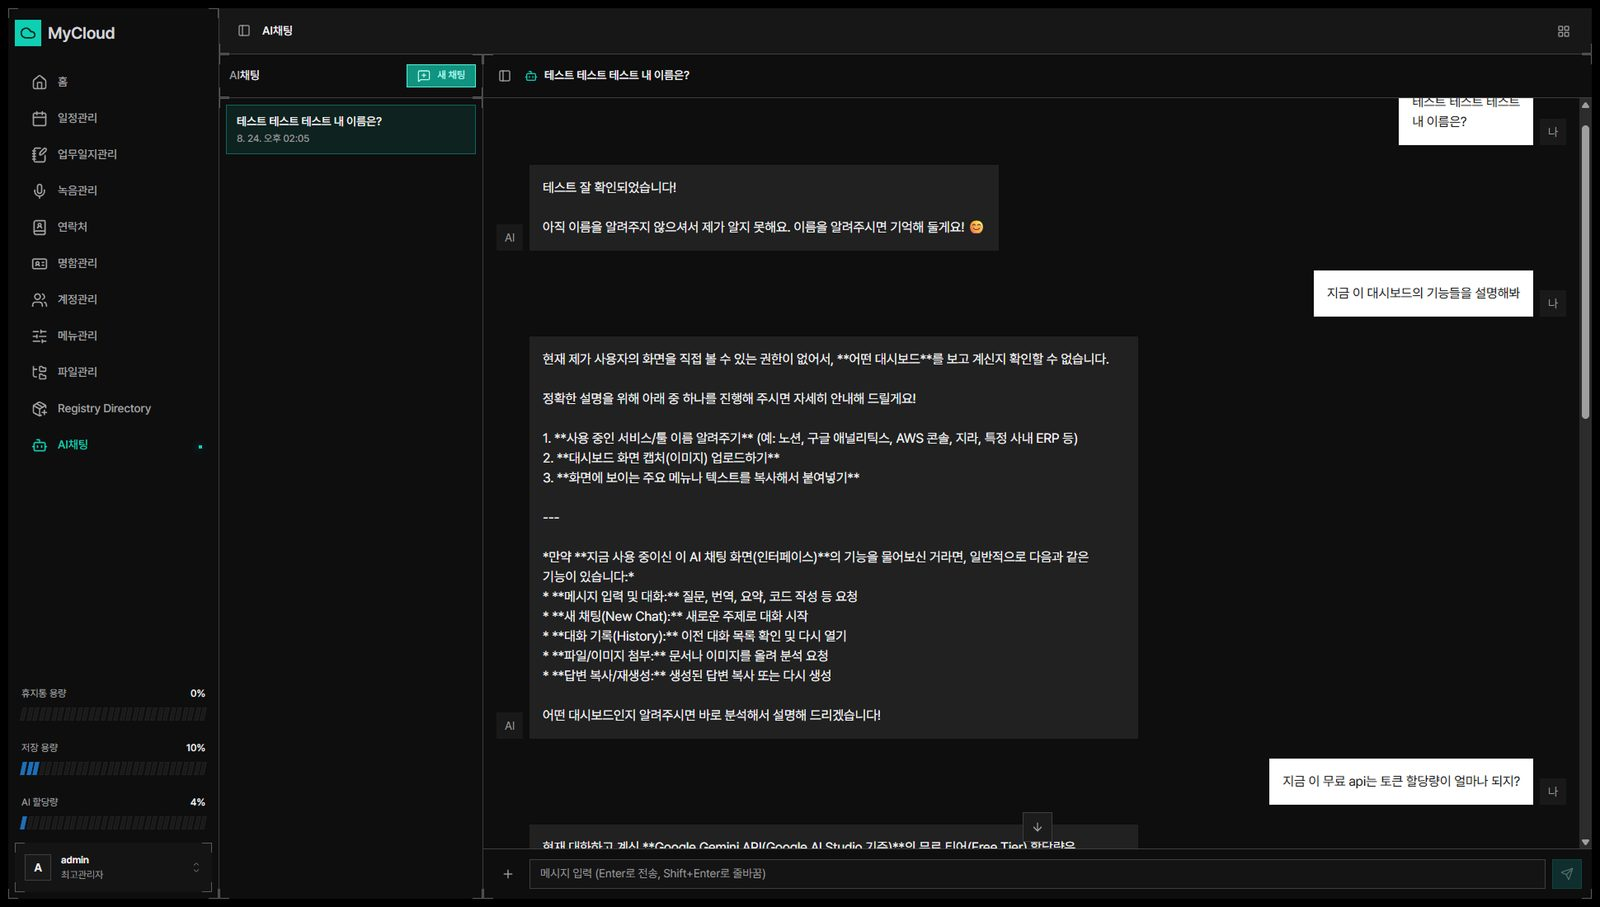
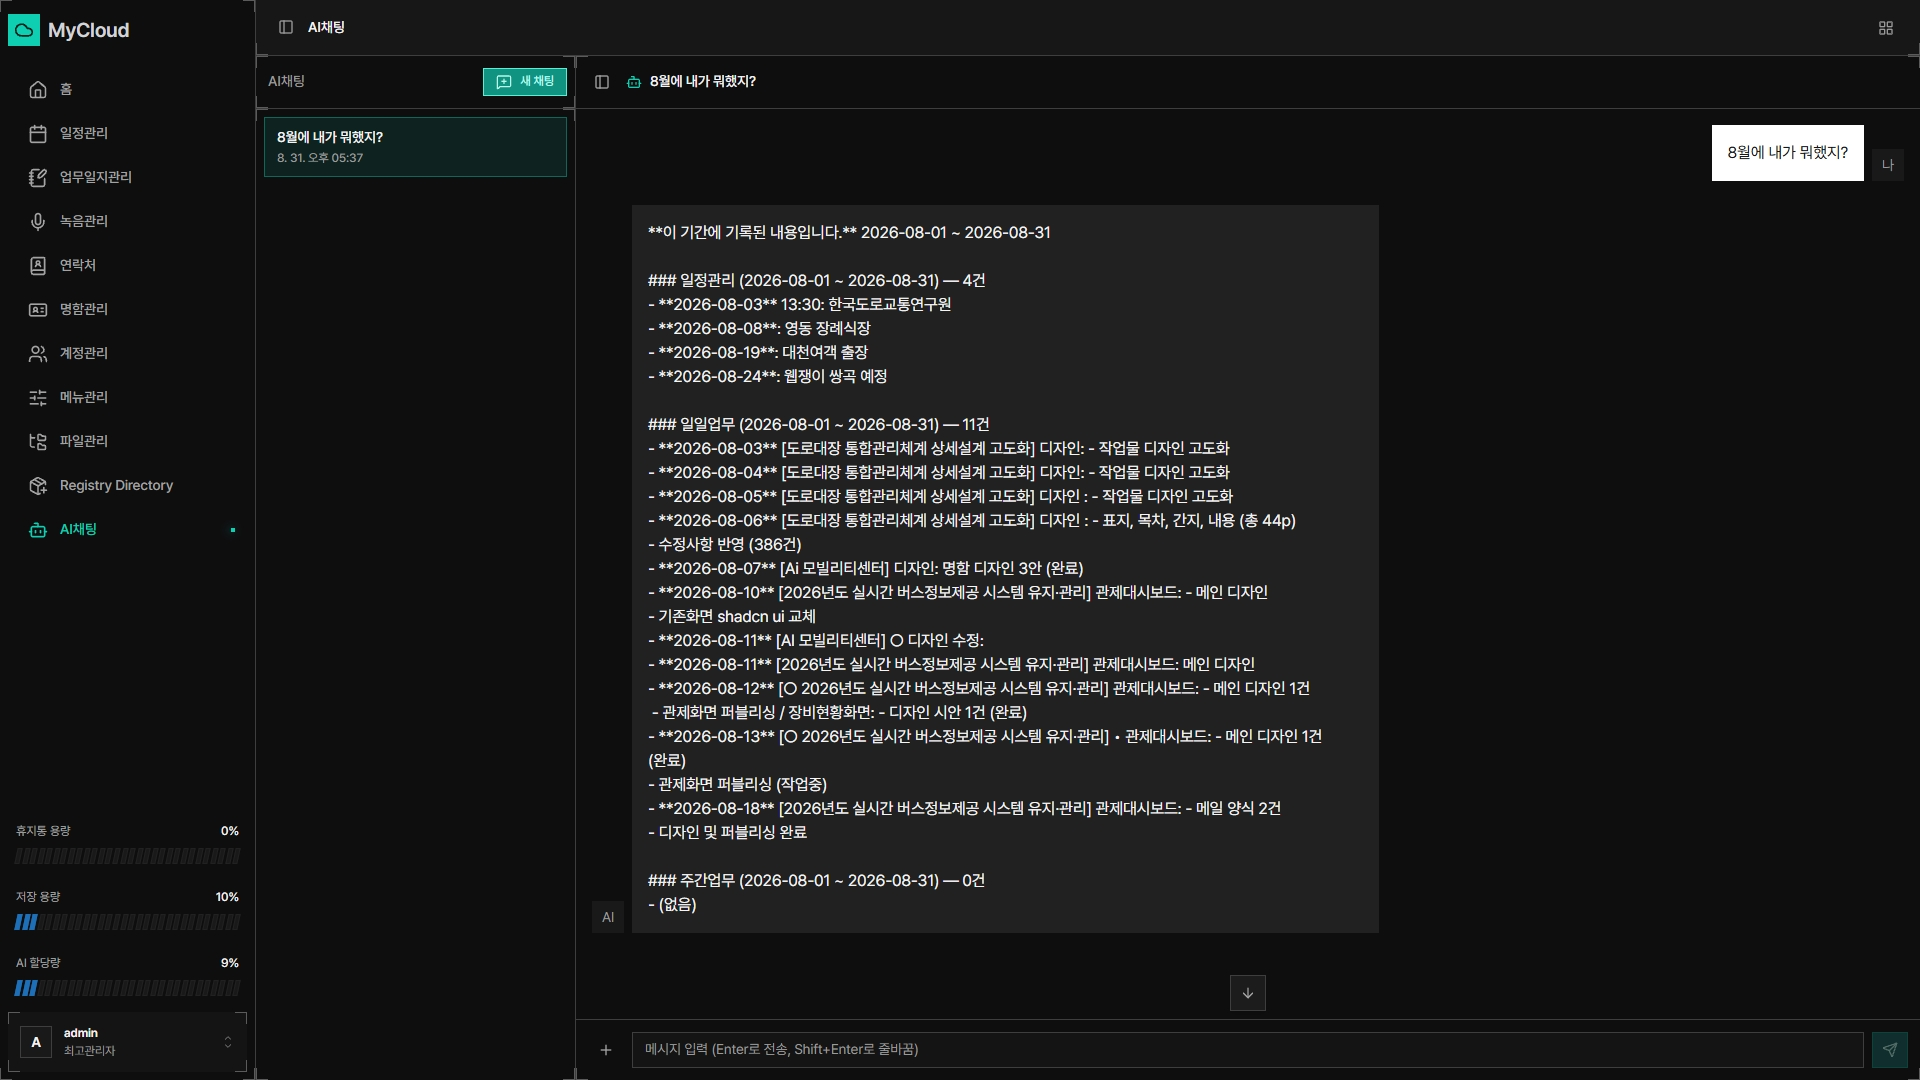
item18(주)반해 신설
시유재산관리시스템 다음에 배치 — 과거 프리랜서로 진행한 사료급여계산기
프로젝트(약 60페이지 퍼블리싱만 담당, AI 시대 이전 순수 HTML/CSS/jQuery),
Adobe XD 프리뷰 링크·실제 사이트 링크 포함

diff --git a/index.html b/index.html
@@ -486,6 +486,43 @@ supportsCssVars() || alert("Please view this demo in a modern browser that suppo
 						</figure>
 
 						<figure class="gallery__item">
+							<div class="gallery__item-img"><div class="gallery__item-imginner" style="background-image: url('images/item18/item18.jpg')" data-scroll="" data-scroll-speed="-0.8"></div></div>
+							<figcaption class="gallery__item-caption">
+								<h2 class="gallery__item-title" data-scroll="" data-scroll-speed="1">(주)반해</h2>
+								<span class="gallery__item-number" data-scroll="" data-scroll-speed="1.5">18</span>
+								<p class="gallery__item-tags">
+									<span>#퍼블리싱</span>
+								</p>
+								<a class="gallery__item-link" aria-label="explore"><span class="gallery__item-link-glow"><svg xmlns="http://www.w3.org/2000/svg" width="32" height="32" viewBox="0 0 24 24"><g fill="none" stroke="currentColor" stroke-linecap="round" stroke-linejoin="round" stroke-width="2"><circle cx="11" cy="11" r="8" stroke-dasharray="51" stroke-dashoffset="51"/><path d="m21 21-4.3-4.3" stroke-dasharray="7" stroke-dashoffset="7"/></g></svg></span></a>
+							</figcaption>
+							<script type="application/json" class="gallery__item-data">{
+								"description": [
+									"과거 프리랜서로 진행했던 사료급여계산기 프로젝트입니다.",
+									"AI 시대 이전, 순수 HTML·CSS·jQuery로 작업했습니다."
+								],
+								"links": [
+									{ "href": "https://xd.adobe.com/view/d7611f12-cd5e-461c-95dc-4dc693b31f7b-8232/", "label": "프리뷰 보기" },
+									{ "href": "https://banhae.com/suv/calorie_new.php", "label": "사이트 보기" }
+								],
+								"whatidid": [
+									"사료급여계산기 웹사이트 전체 페이지(약 60페이지) 퍼블리싱 진행"
+								],
+								"skills": [
+									"HTML",
+									"CSS",
+									"jQuery"
+								],
+								"section2": {
+									"type": "images",
+									"images": [
+										"item18/item18-1.jpg"
+									]
+								}
+							}
+							</script>
+						</figure>
+
+						<figure class="gallery__item">
 							<div class="gallery__item-img"><div class="gallery__item-imginner" style="background-image: url('images/item7/item7.jpg')" data-scroll="" data-scroll-speed="-0.8"></div></div>
 							<figcaption class="gallery__item-caption">
 								<h2 class="gallery__item-title" data-scroll="" data-scroll-speed="1">생태계기후대응<br>통합정보관리시스템</h2>
